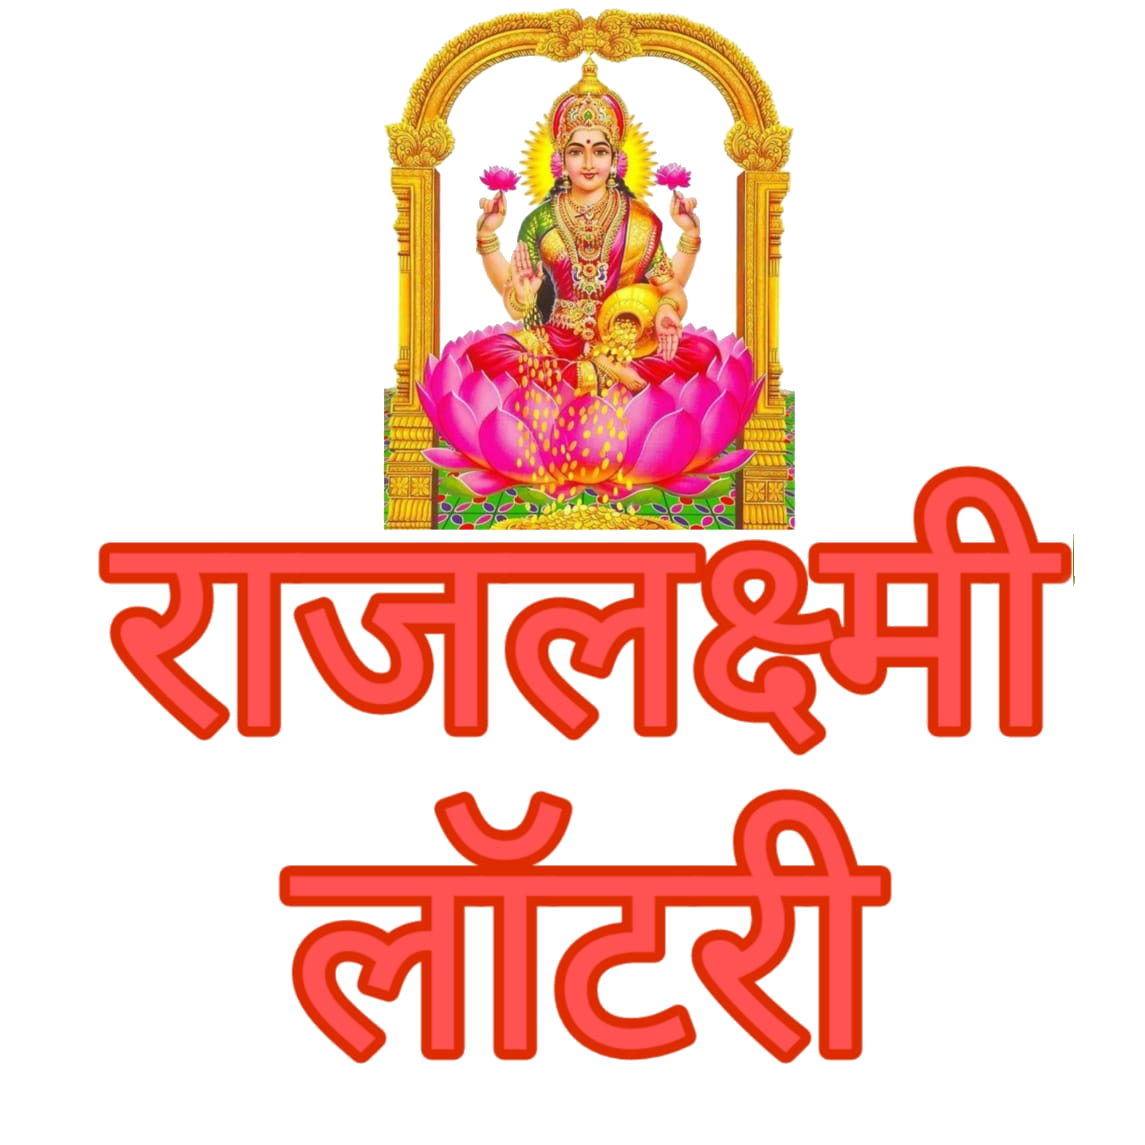
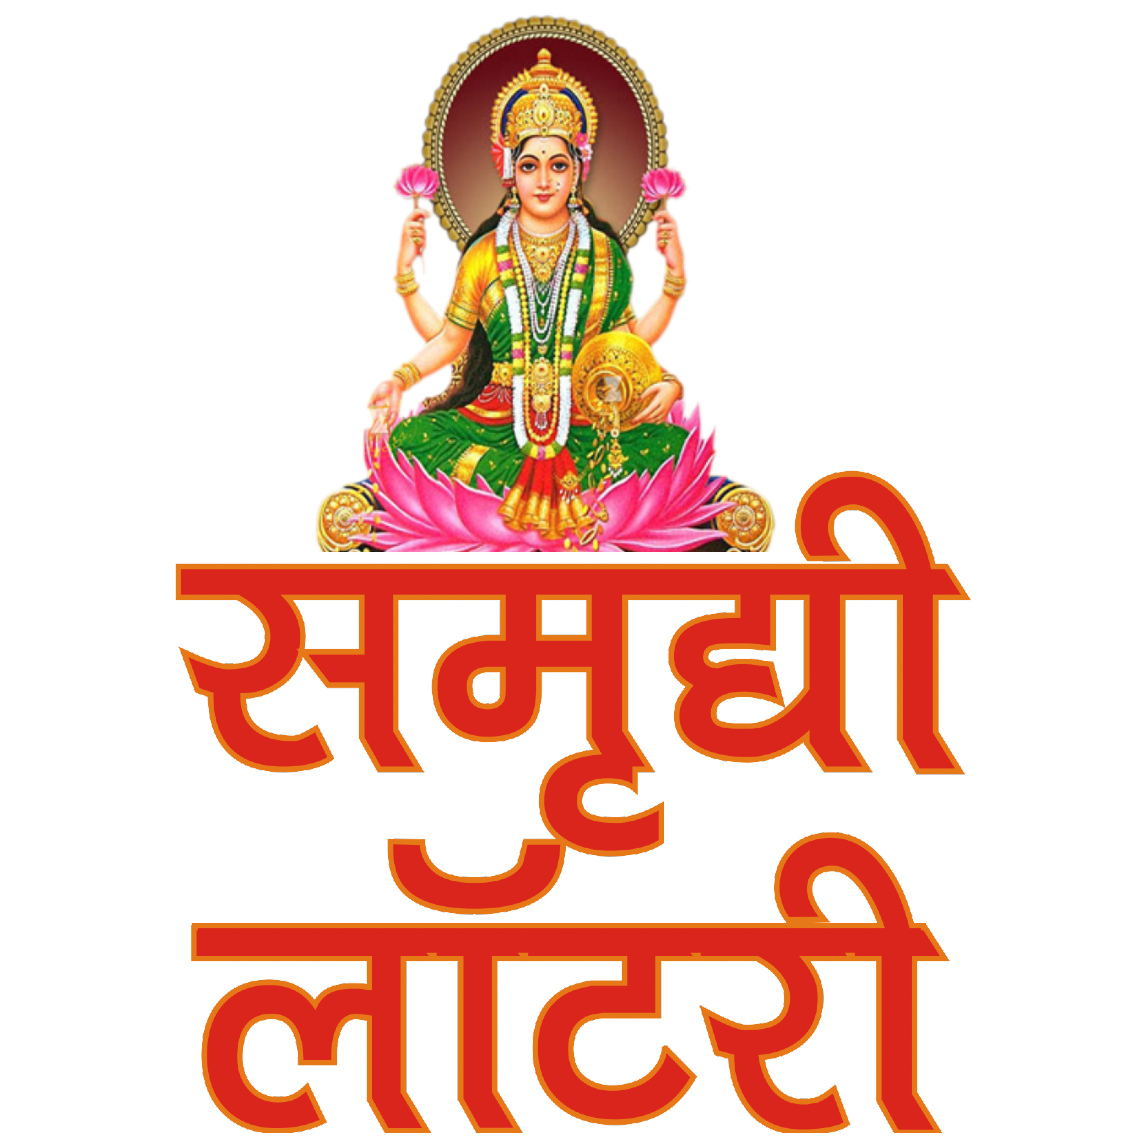
config basic domina and other

diff --git a/application/web/views/main.php b/application/web/views/main.php
@@ -6,7 +6,7 @@ defined('BASEPATH') OR exit('No direct script access allowed');
         <meta charset="utf-8">
         <!--        <meta name="viewport" content="width=device-width, initial-scale=1">
                 <meta http-equiv="X-UA-Compatible" content="IE=edge" />-->
-        <title>RajLaxmi Result Panel</title>
+        <title>Sarudhi Result Panel</title>
         <link href="/assets/ap/bootstrap/css/bootstrap.css" rel="stylesheet" type="text/css"/>
         <style>
             .logo-img {
@@ -28,7 +28,7 @@ defined('BASEPATH') OR exit('No direct script access allowed');
                 <div class="col-lg-12">
                     <p>
                         <img src="rjlx.png" alt="log-img" class="logo-img"/>
-                        <span style="text-align:center;font-size:30px;"><strong>RajLaxmi Lottery Result Panel</strong></span>
+                        <span style="text-align:center;font-size:30px;"><strong>Samrudhi Lottery Result Panel</strong></span>
                     </p>
                 </div>
                 <div class="col-lg-12">

diff --git a/index.php b/index.php
@@ -11,12 +11,12 @@ if (!isset($_SESSION["cart"])) {
 }
 //$_SESSION["msg"]="work";
 define('ENVIRONMENT', isset($_SERVER['CI_ENV']) ? $_SERVER['CI_ENV'] : 'development');
-define("domain", "http://omlotto.com/");
-define("game","http://omlotto.com/");
+define("domain", "http://samruddhilottery.in/");
+define("game","http://samruddhilottery.in//");
 define("company", "omlotto");
 //define("api_url", "http://api.omlotto.com");
-define("api_url", "http://api.newloto.lcl");
-define("noreplayid", "no-replay@omlotto.com");
+define("api_url", "http://api.samruddhilottery.in");
+define("noreplayid", "no-replay@samruddhilottery.in");
 /*
  * ---------------------------------------------------------------
  * ERROR REPORTING
